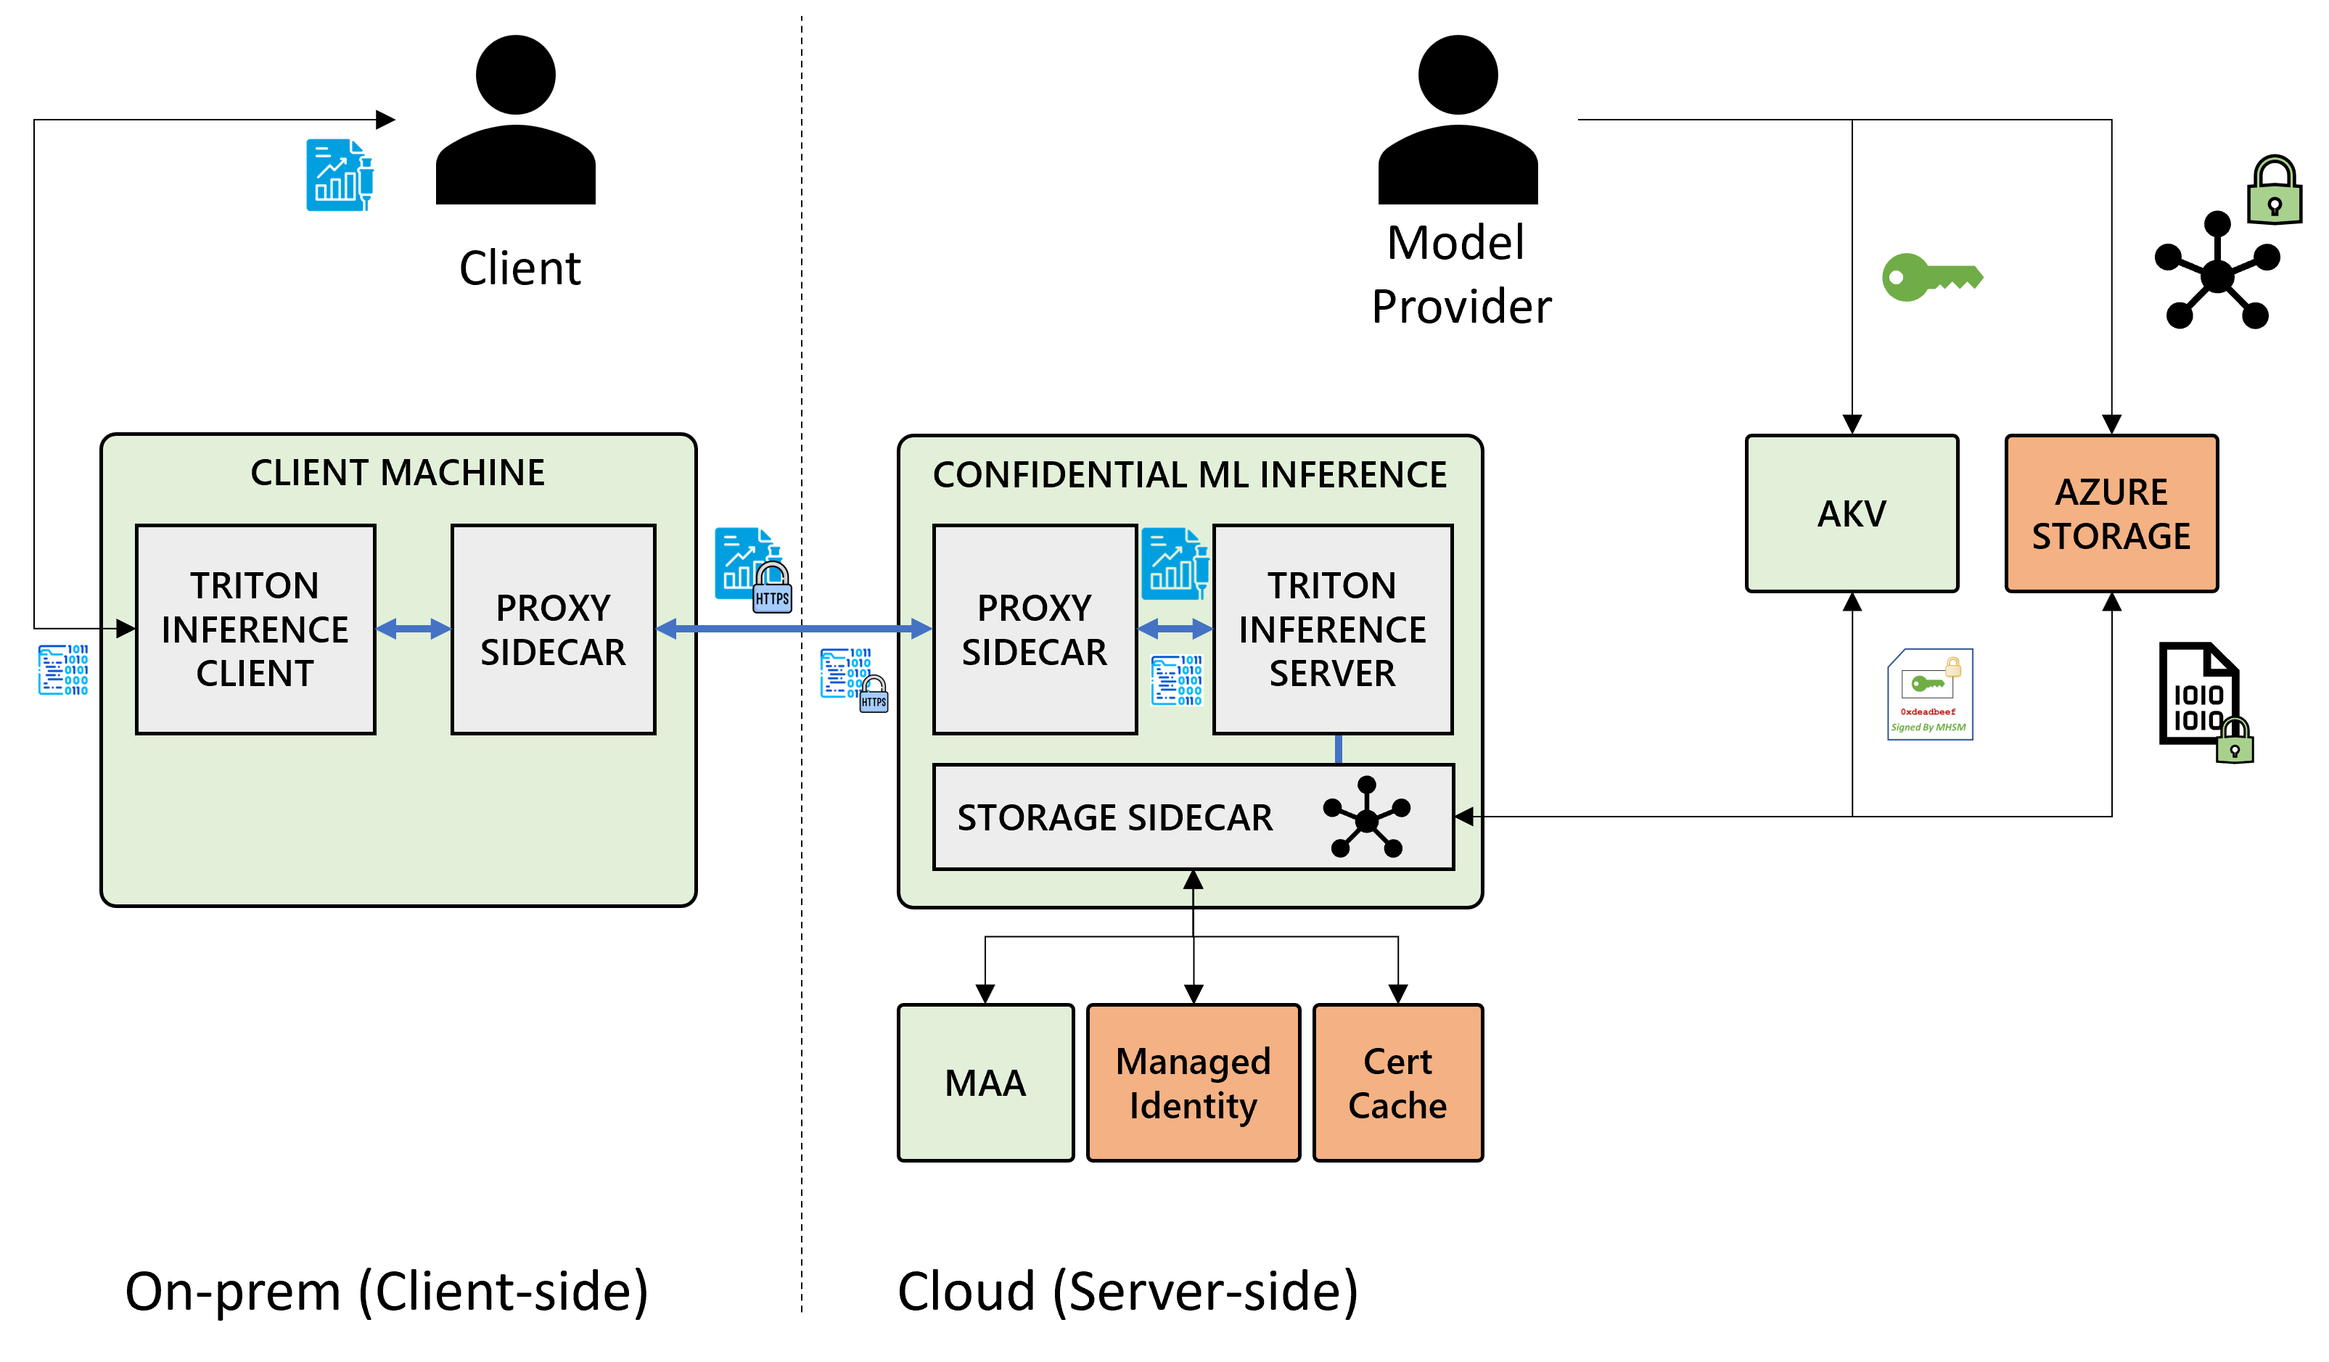
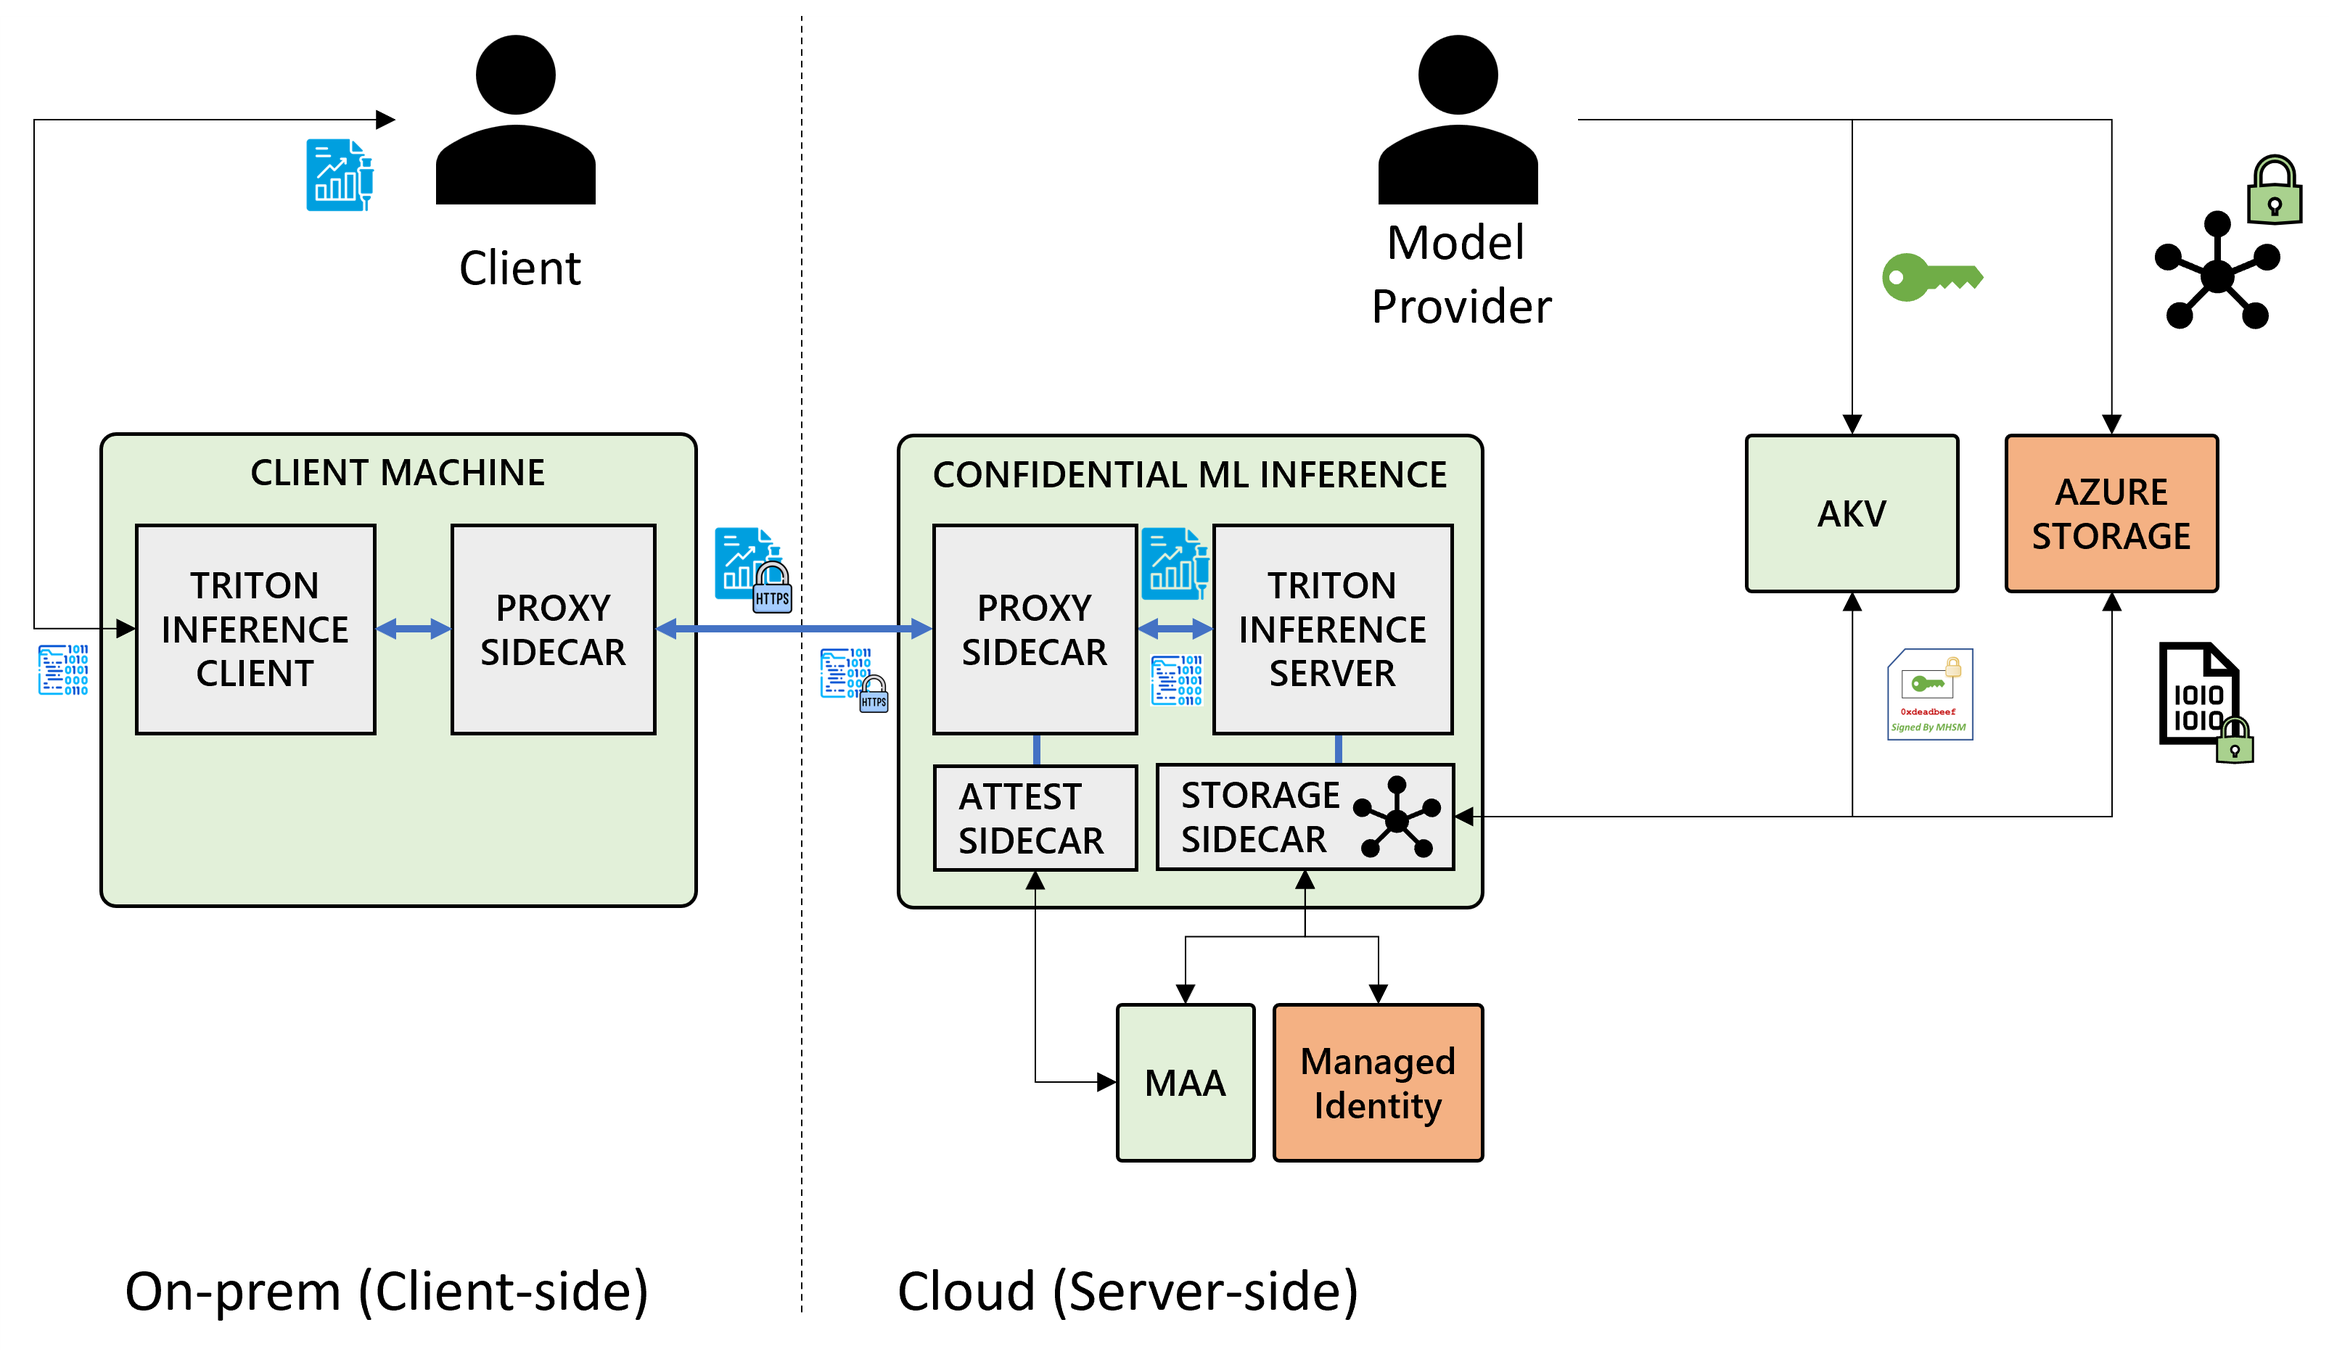
Addressing comments from Kapil

Changed region(s): [[0.3738, 0.7103, 0.6231, 0.8647], [0.405, 0.5559, 0.6231, 0.6486], [0.5919, 0.7103, 0.6231, 0.7412]]

diff --git a/inference/docs/arch.md b/inference/docs/arch.md
@@ -1,7 +1,7 @@
-# Confidential ML Inference Architecture
+# Confidential ML Inference Service Architecture
 We first describe the confidential ACI platform, and then the threat model and the architecture for the confidential ML inference service.
 
-## Confidential ACI
+## Confidential Containers on ACI
 ![Platform for Confidential ACI](./images/aci-platform.png)
 
 Azure Container Instances (ACI) provide means to execute serverless container groups in the cloud. Container groups are hosted in utility VMs, which are isolated from other container groups that may be co-running on the same host.
@@ -10,18 +10,16 @@ The Confidential Containers on ACI platform (illustrated in the figure above) le
 
 Confidential containers also support container-level integrity and attestation via the security policy, which prescribes the container group that is permitted to run within the utility VM (i.e., set of containers, the entry point and command attributes, and environment variables) and is enforced by the utility VM’s container runtime. A container image is uniquely identified by a chain of hashes; one hash for each layer corresponding to the root hash of the layer’s integrity tree. The utility VM mounts the container’s root filesystem (comprising the container image layers + read/write scratch layer) with integrity protection to guarantee container integrity throughout the container’s execution. The security policy is presented to the RoT during the boot phase of the utility VM and is encoded in the attestation report as an immutable attribute. 
 
-ACI customers are expected to import their data/application encryption keys (for decrypting their sensitive data) to a key management service that supports secure key release, such as the Azure Key Vault, which enables users to import keys along with a secure key release policy; an example of such policy specifies the expected security policy and utility OS.  The keys can then be released to the container group if the container group presents hardware-backed attestation claims that match the key release policy.  
+ACI customers are expected to import their data/application encryption keys (for decrypting their sensitive data) to a key management service that supports secure key release, such as the Azure Key Vault, which enables users to import keys bount to a key release policy; an example of such policy specifies the expected security policy and utility OS.  The keys can then be released to the container group if the container group presents hardware-backed attestation claims that match the key release policy.  
 
-## Confidential ML Inference
-
-![Confidential ML Inference Architecture](./images/conf-ml-architecture.png)
-
-The figure illustrates the proposed confidential ML inference service. The model provider uploads their model encryption key and encrypted model to Azure services. The client uses an http proxy that establishes an attested TLS connection with the service, over which they submit inference requests. The service comprises the Triton inference server and a collection of sidecar containers, responsible for providing attested TLS connection between the client and server, secure key release, and access to encrypted filesystems. The proxy sidecar, responsible for transparent attested TLS, possesses two certificates: one domain certificate and one TEE-specific self-signed certificate. The storage sidecar utilizes three identity tokens: a token for authenticating with Azure Storage and another one for authenticating with AKV, and a TEE-specific token (via Microsoft Azure Attestation) for authorizing secure key release. The first two tokens are retrieved via managed identity assigned to the container group hosting the service. The managed identity is assigned the 
+## Confidential ML Inference Service
+We first review the threat model and then describe the architecture.
 
 ### Threat Model
-We assume a powerful attacker who may gain control of the Azure infrastructure  as well as the communication channel between the client and the service. This means that all code running outside the container group’s TEE (i.e., the utility SEV-SNP VM) is untrusted. The trusted computing base (TCB) excludes the host operating system and the hypervisor. The TCB includes the utility VM, including the guest operating system and the user-space root filesystem, including the container runtime.
+We assume a powerful attacker who may gain control of the Azure infrastructure  as well as the communication channel between the client and the service. This means that all code running outside the container group’s TEE (i.e., the utility SEV-SNP VM) is untrusted. The trusted computing base (TCB) excludes the host operating system and the hypervisor. The TCB includes 
+the utility VM, including all components running within the VM and the container group, including (a) the guest operating system, the user-space root filesystem, and the container runtime deployed by the container platform and (b) possibly a collection of infrastructure sidecar containers deployed within the container group by the container service provider. 
 
-The confidential ML service  relies on a collection of sidecar containers to provide secure communication between client and server and to mount encrypted filesystems storing confidential models. These sidecar containers run within the container group, and hence are included in the attestation and are trusted.  Finally, these sidecars rely on Microsoft Azure Attestation and Azure Key Vault for retrieving the model encryption keys. These services are part of the TCB, run in remote TEEs, and hence they are attestable and protected from Azure infrastructure and operators.
+The confidential ML service  relies on a collection of sidecar containers to provide secure communication between client and server and to mount encrypted filesystems storing confidential models. These sidecar containers run within the container group, and hence are included in the attestation and are trusted.  Finally, these sidecars rely on Microsoft Azure Attestation (MAA) and Azure Key Vault (AKV) for retrieving the model encryption keys. These services are part of the TCB, run in remote TEEs, and hence they are attestable and protected from Azure infrastructure and operators.
 
 The service and client may rely on a certificate authority (CA) for TLS certificates. The CA is trusted for attributes such as ownership of a domain name, but not trusted for the security properties of the channel. 
 
@@ -30,22 +28,38 @@ Under this threat model, we wish to guarantee the following properties.
 - **Confidentiality.** Data sent over the network, including the remote filesystem storing the model, and the client-service communication appears in plaintext only within the TEE.
 - **Integrity.**  Data received over the network, including the remote filesystem storing the model, and the client-service communication, cannot be modified by attackers without detection. 
 
-### Server
+### Architecture
 
-**Inference Container.** We utilize a container running the NVIDIA Triton inference server built for CPU-only inference of ONNX runtime models. We extend the container with model attestation, which entails verifying the model using the public key of the model signer before the inference server is started. The public key is passed as a base64-encoded string attribute to the container’s entry point, and hence is included in the attestable security policy.
+![Confidential ML Inference Architecture](./images/conf-ml-architecture.png)
 
-**Encrypted Filesystem Container.** We utilize a sidecar container to mount a remote encrypted filesystem (storing the model and its signature) previously uploaded to Azure Blob Storage by the model provider. The filesystem is encrypted using a key owned by the model provider, which has been imported to the Azure Key Vault managed HSM service along with a key release policy. 
+The figure above illustrates the architecure of the proposed confidential ML inference service. 
+
+**Preperation.** the model provider signs and encrypts the model in a clean room (on their premises). Signing is done using private/public cryptography (e.g., elliptic-curve) and encryption is done using an AES variant. The provider then uploads the encrypted model and the encryption key to Azure Storage and Azure Key Vault, referred to as AKV. The model provider also provisions a user-assigned managed identity, which is assigned the required Azure Resource Control roles for the Azure Storage and AKV resources. 
+
+**Deployment.** The service comprises the Triton inference server and a collection of sidecar containers, responsible for providing attested TLS connection between the client and server and access to encrypted filesystems. The proxy sidecar, responsible for transparent attested TLS, possesses two certificates: one domain certificate and one TEE-specific self-signed certificate. The proxy sidecar utilizes the attestation sidecar to retrieve a TEE-specific token via Microsoft Azure Attestation (MAA) that captures the self-signed certificate as a claim. The storage sidecar utilizes three identity tokens: a token for authenticating with Azure Storage and another one for authenticating with Azure Key Vault, and a TEE-specific token via MAA for authorizing secure key release. The first two tokens are retrieved via the managed identity assigned to the container group during deployment. 
+
+The TEE-specific tokens are issued by MAA in response of validating the attestation report against the certificate chain endording the attestation signing key. The token authors various claims capturing the security properties of the VM (hosting the container group.)
+
+The client uses an http proxy that establishes an attested TLS connection with the attested service, over which they submit inference requests.
+
+#### **Server**
+The server is deployed as a container group consisting of the inference container and three sidecar containers:
+
+*Inference Container.* We utilize a container running the NVIDIA Triton inference server built for CPU-only inference of ONNX runtime models. We extend the container with model attestation, which entails verifying the model using the public key of the model signer before the inference server is started. The public key is passed as a base64-encoded string attribute to the container’s entry point, and hence is included in the attestable security policy.
+
+*Encrypted Filesystem Container.* We utilize a sidecar container to mount a remote encrypted filesystem (storing the model and its signature) previously uploaded to Azure Blob Storage by the model provider. The filesystem is encrypted using a key owned by the model provider, which has been imported to the Azure Key Vault managed HSM service along with a key release policy. 
 
 The sidecar container transparently retrieves the hardware attestation and the certificate chain endorsing the attestation’s signing key. It then requests Microsoft Azure Attestation (MAA) to authorize an attestation token, which is required for securely releasing the filesystem’s encryption key from Azure Key Vault. The key is released to the sidecar container only if the attestation token is signed by the expected authority and the attestation claims match the key’s release policy. Finally, the sidecar container transparently uses the key to mount the remote encrypted filesystem; this process will preserve the confidentiality and integrity of the filesystem upon any operation from a container running within the container group.
 
-**Attestation Container.** We utilize a sidecar container to expose a local REST API (to containers running within the container group) over which they can retrieve a raw attestation report or an MAA token.
+*Attestation Container.* We utilize a sidecar container to expose a local REST API (to containers running within the container group) over which they can retrieve a raw attestation report or an MAA token.
 
-**Proxy sidecar with attested TLS.** We utilize an init container that configures HTTP traffic generated by the inference server container to be intercepted and forwarded to a proxy sidecar container. The proxy sidecar container implements an attested TLS protocol for establishing a secure channel with the client. All TLS connections are transparent to the inference server and are terminated within this proxy sidecar container.
+*Proxy sidecar with attested TLS.* We utilize an init container that configures HTTP traffic generated by the inference server container to be intercepted and forwarded to a proxy sidecar container. The proxy sidecar container implements an attested TLS protocol for establishing a secure channel with the client. All TLS connections are transparent to the inference server and are terminated within this proxy sidecar container.
 
 Attested TLS is a TLS extension that is used to cryptographically bind the TLS handshake with the attestation report of the ACI deployment. The server generates a fresh certificate-based identity for the TEE and generates an attestation over this identity (by retrieving an MAA token via the attestation container which presents the identity as a run-time claim.) During a TLS handshake with the client, the attested TLS extension makes use of this TEE-specific identity to cryptographically sign the transcript of the key exchange, binding the TLS session created to the TEE-specific identity. The TLS handshake terminates in the proxy sidecar and is completely transparent to the inference server. 
 
-### Client
+#### **Client**
+The client consists of the client and a proxy sidecar container:
 
-**Triton client.** We use an unmodified triton client which submits inference query requests to the Triton server via an HTTP proxy.
+*Triton client.* We use an unmodified triton client which submits inference query requests to the Triton server via an HTTP proxy.
 
-**HTTP proxy sidecar with attested TLS.** The HTTP proxy implements the client-side attested TLS protocol. The proxy verifies the validity of the attested TLS signature and the TEE-specific identity of the signer including platform and initialization claims---e.g., if debugging is disabled, if the utility OS is compliant, if the security policy matches the expected one. If the verification succeeds, the TLS handshake proceeds. Subsequently, all traffic sent by the client via the proxy will be transmitted over the attested TLS connection.
+*HTTP proxy sidecar with attested TLS.* The HTTP proxy implements the client-side attested TLS protocol. The proxy verifies the validity of the attested TLS signature and the TEE-specific identity of the signer including platform and initialization claims---e.g., if debugging is disabled, if the utility OS is compliant, if the security policy matches the expected one. If the verification succeeds, the TLS handshake proceeds. Subsequently, all traffic sent by the client via the proxy will be transmitted over the attested TLS connection.
